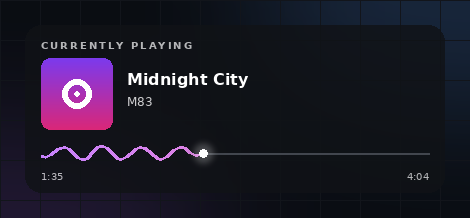
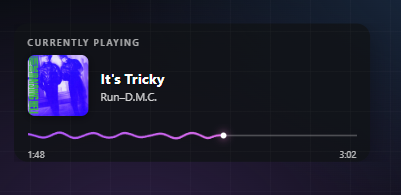
add new images

diff --git a/README.md b/README.md
@@ -19,12 +19,8 @@ The widget shows title, artist, cover art and a progress display in five styles 
 
 | | |
 |---|---|
-| ![Default: animated line, cover on the left](docs/examples/line-default.png) Default look — animated line, cover on the left | ![Bar waveform on a blurred cover backdrop](docs/examples/backdrop-wave.png) `?style=wave&cover=backdrop` |
-| ![Compact mode with the comet style](docs/examples/compact-comet.png) `?compact=1&style=comet` | ![Liquid style on a light custom background](docs/examples/liquid-light.png) `?style=liquid&bg=f4f4f6&bgo=95` |
-
-![Up Next banner appearing before the end of the song](docs/examples/next-banner.png)
-
-`?next=15` — the "Up Next" banner slides in a few seconds before the song ends, with a countdown strip along its bottom edge.
+| ![Default look: animated line, cover on the left](docs/examples/line-default.png) Default look — animated line, cover on the left | ![Compact mode](docs/examples/compact-line.png) `?compact=1` — single line, smaller cover |
+| ![Liquid style with the Up Next banner](docs/examples/liquid-next.png) `?style=liquid&next=15` — liquid fill, "Up Next" with countdown | ![Comet style with arrows animation](docs/examples/comet-arrows.png) `?style=comet&animstyle=arrows&next=15` — comet trail, chevrons pulsing toward the next track |
 
 ## Connect Spotify
 
